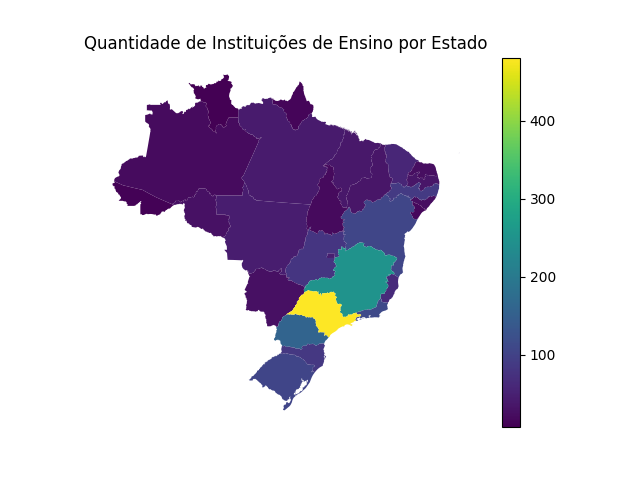
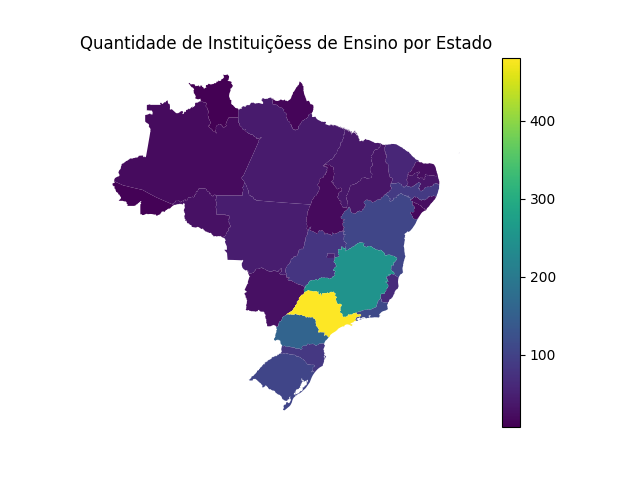
Corrigindo main e analise_paulo

Changed region(s): [[0.125, 0.0625, 0.7812, 0.125]]

diff --git a/analise_paulo.py b/analise_paulo.py
@@ -46,10 +46,8 @@ def graf_boxplot_conceito_medio_mestrado():
     plt.ylabel("Conceito Médio")
     plt.gca().set_xticklabels([])
 
-    plt.savefig("grafic_folder/grafico_3.png")
+    plt.savefig("graphic_folder/grafico_3.png")
     plt.show()
-
-graf_boxplot_conceito_medio_mestrado()
 
 def graf_mapa_instituições_por_uf():
     # Utilizando um shapefile para o desenvolvimento de um gráfico de mapa
@@ -58,13 +56,11 @@ def graf_mapa_instituições_por_uf():
     merge.plot(column="count", cmap="viridis", legend=True)
 
     # Personalizando o gráfico
-    plt.title("Quantidade de Instituições de Ensino por Estado")
+    plt.title("Quantidade de Instituiçõess de Ensino por Estado")
     plt.axis("off")
 
-    plt.savefig("grafic_folder/grafico_4.png")
+    plt.savefig("graphic_folder/grafico_4.png")
     plt.show()
-
-graf_mapa_instituições_por_uf()
 
 def graf_hist_alfa_beta_gama():
     fig, axs = plt.subplots(1, 3, figsize=(12, 4))
@@ -86,7 +82,5 @@ def graf_hist_alfa_beta_gama():
 
     plt.tight_layout()
 
-    plt.savefig("grafic_folder/grafico_5.png")
+    plt.savefig("graphic_folder/grafico_5.png")
     plt.show()
-
-graf_hist_alfa_beta_gama()

diff --git a/main.py b/main.py
@@ -39,13 +39,13 @@ doc = document(title="Meus Gráficos")
 
 with doc:
      h1("Gráfico 3")
-     img(src="grafic_folder/grafico_3.png")
+     img(src="graphic_folder/grafico_3.png")
     
      h1("Gráfico 4")
-     img(src="grafic_folder/grafico_4.png")
+     img(src="graphic_folder/grafico_4.png")
 
      h1("Gráfico 5")
-     img(src="grafic_folder/grafico_5.png")
+     img(src="graphic_folder/grafico_5.png")
 
 # Salva a página HTML em um arquivo
 with open("index.html", "w") as f:
